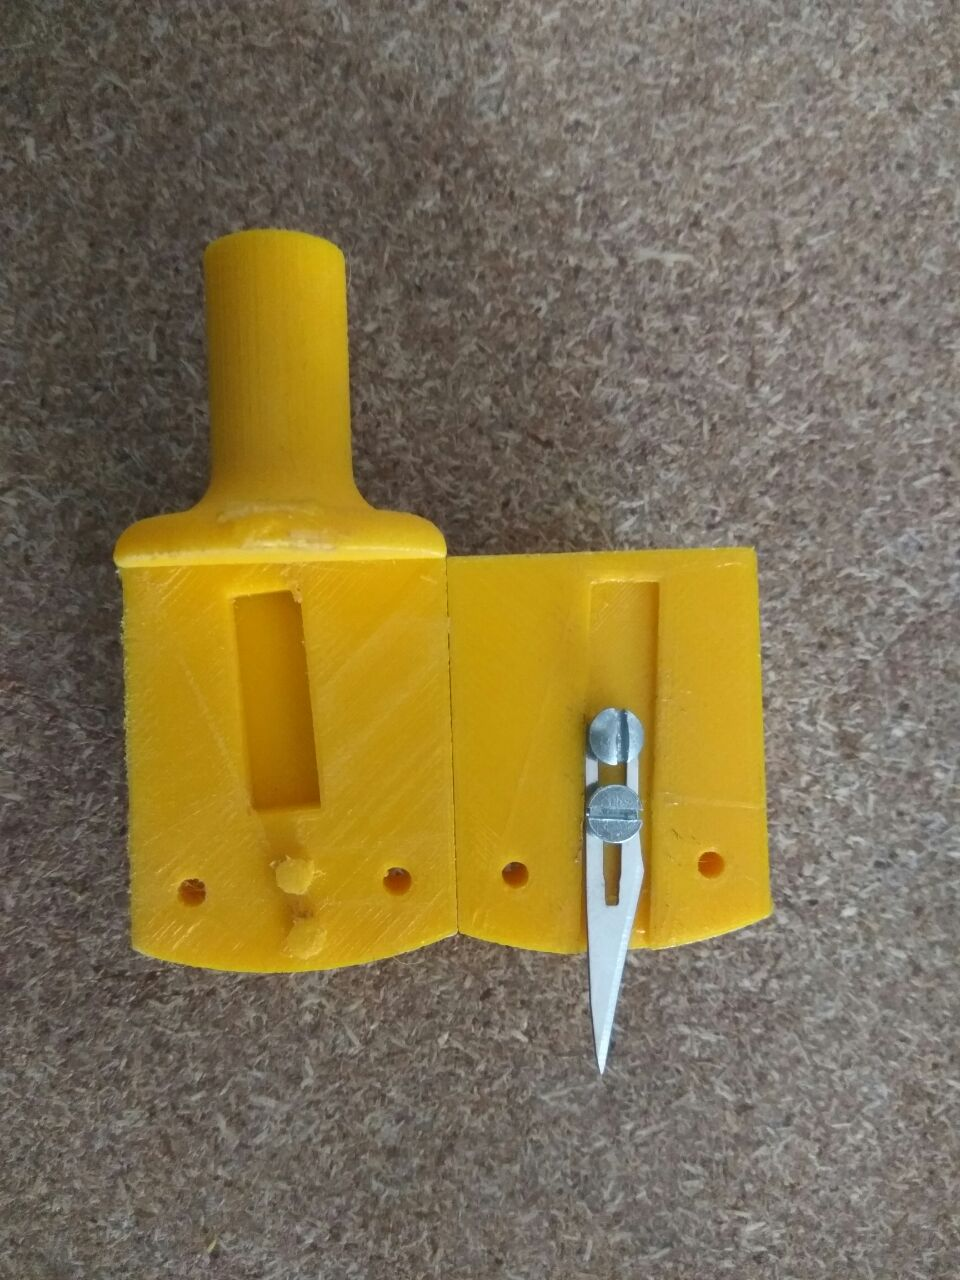
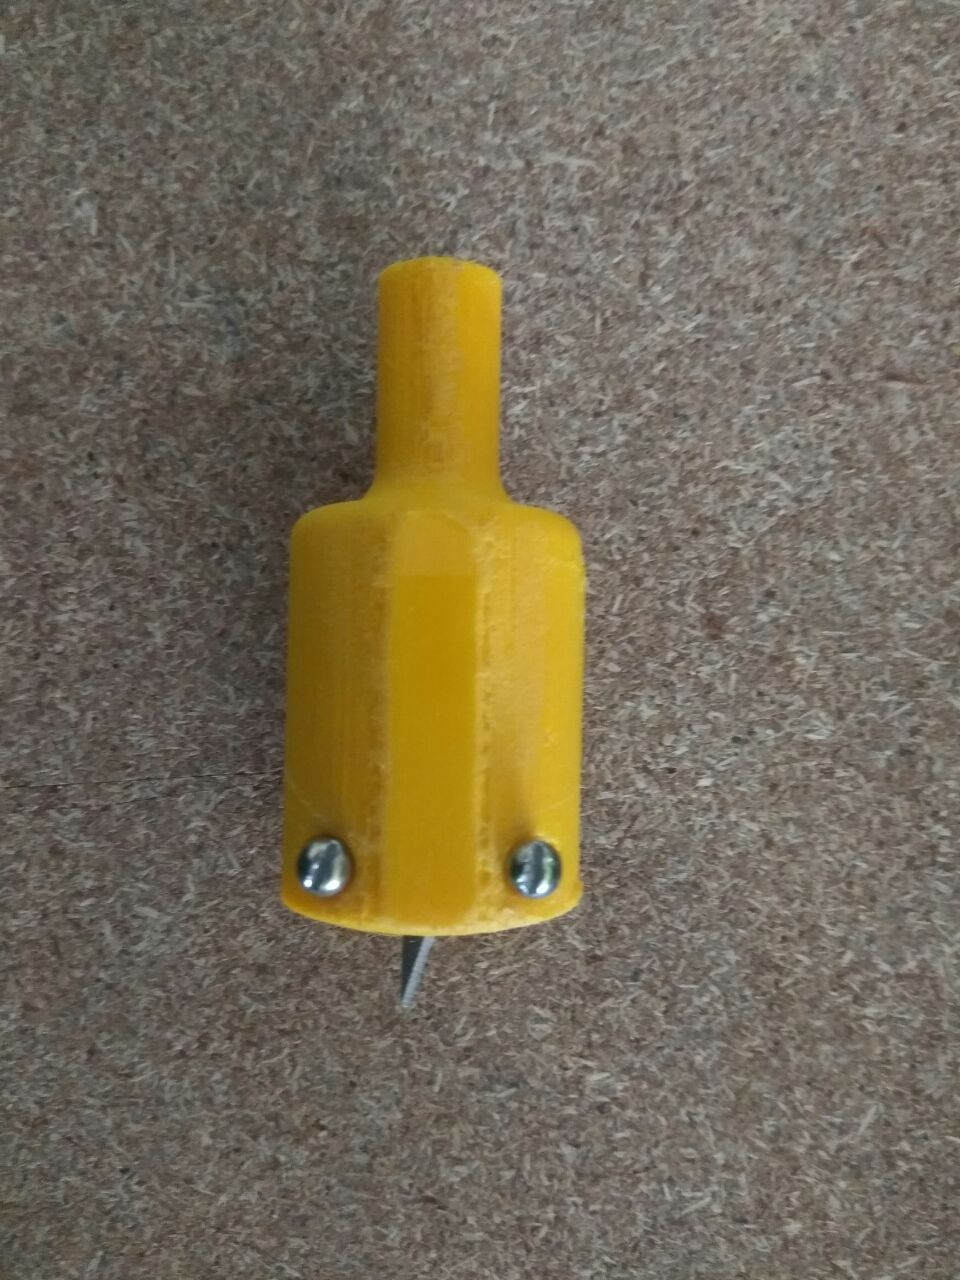
readme

diff --git a/README.md b/README.md
@@ -14,6 +14,10 @@ There are many proffessional drag knifes available, most common of which would b
 
 ![cnc drag knife](Images/v1.png)
 
+![cnc drag knife](Images/v2.jpeg)
+
+![cnc drag knife](Images/v3.jpeg)
+
 This is the first design. The body is 3 pieces, which is design to be joined together by screws to provide easy access to change the blades. It is designed to carry a number 11 surgical scalpel balde. A bearing is provided to help the blade swievel and it fit into a 1/2inch collet. I went with a very large blade offset of 10mm. My spindle was large and it has a lot of momentum while turning.
 
 unfortunately, I did not test the design, as after assembling it I realized one problem. The bearing had too much play and the knife would swing back and forth about 5mm about the Z-axis. This design is a no go.
